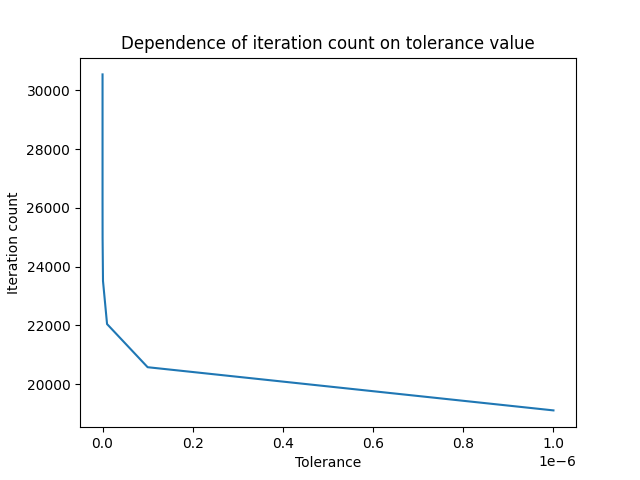
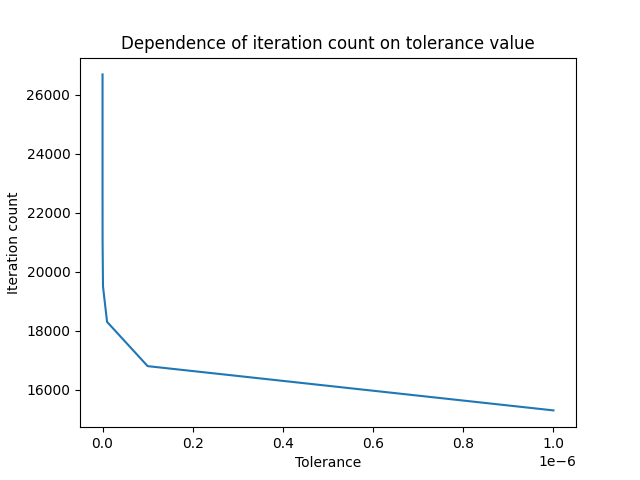
-- slight changes in external.py

diff --git a/Task 5/Part 2/external.py b/Task 5/Part 2/external.py
@@ -28,7 +28,7 @@ def grad_f(x):
     return [df_dx0, df_dx1]
 
 
-def grad_desc(func, grad_func, x0, eps=1e-3, max_iter=10000):
+def grad_desc(func, grad_func, x0, eps=1e-3, max_iter=1e9):
     x = x0
     iter_s = 0
 
@@ -44,6 +44,10 @@ def grad_desc(func, grad_func, x0, eps=1e-3, max_iter=10000):
 
         x = x_new
         iter_s += iter_cnt
+
+        if iter_s >= max_iter:
+            print(f"Iteration count reached the limit of {max_iter}")
+            return 0, max_iter
 
     return x_new, iter_s
 
